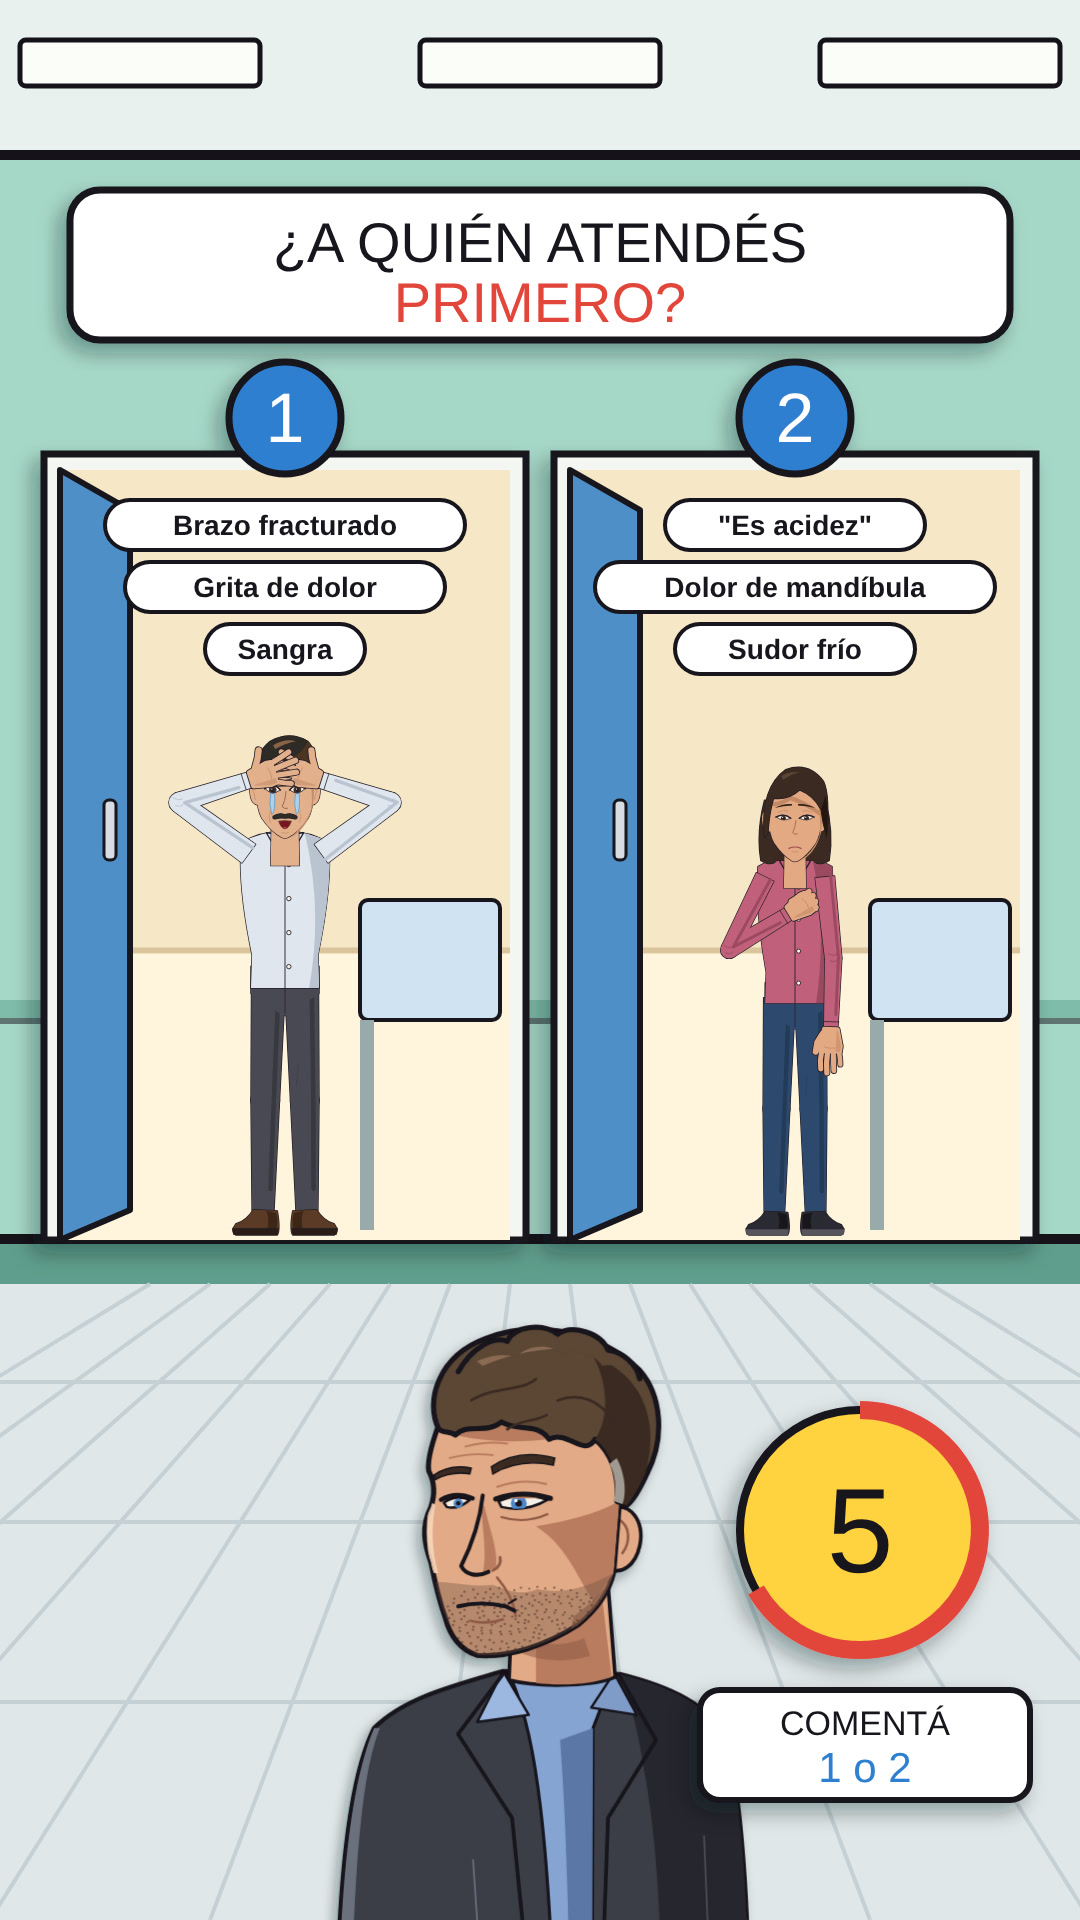
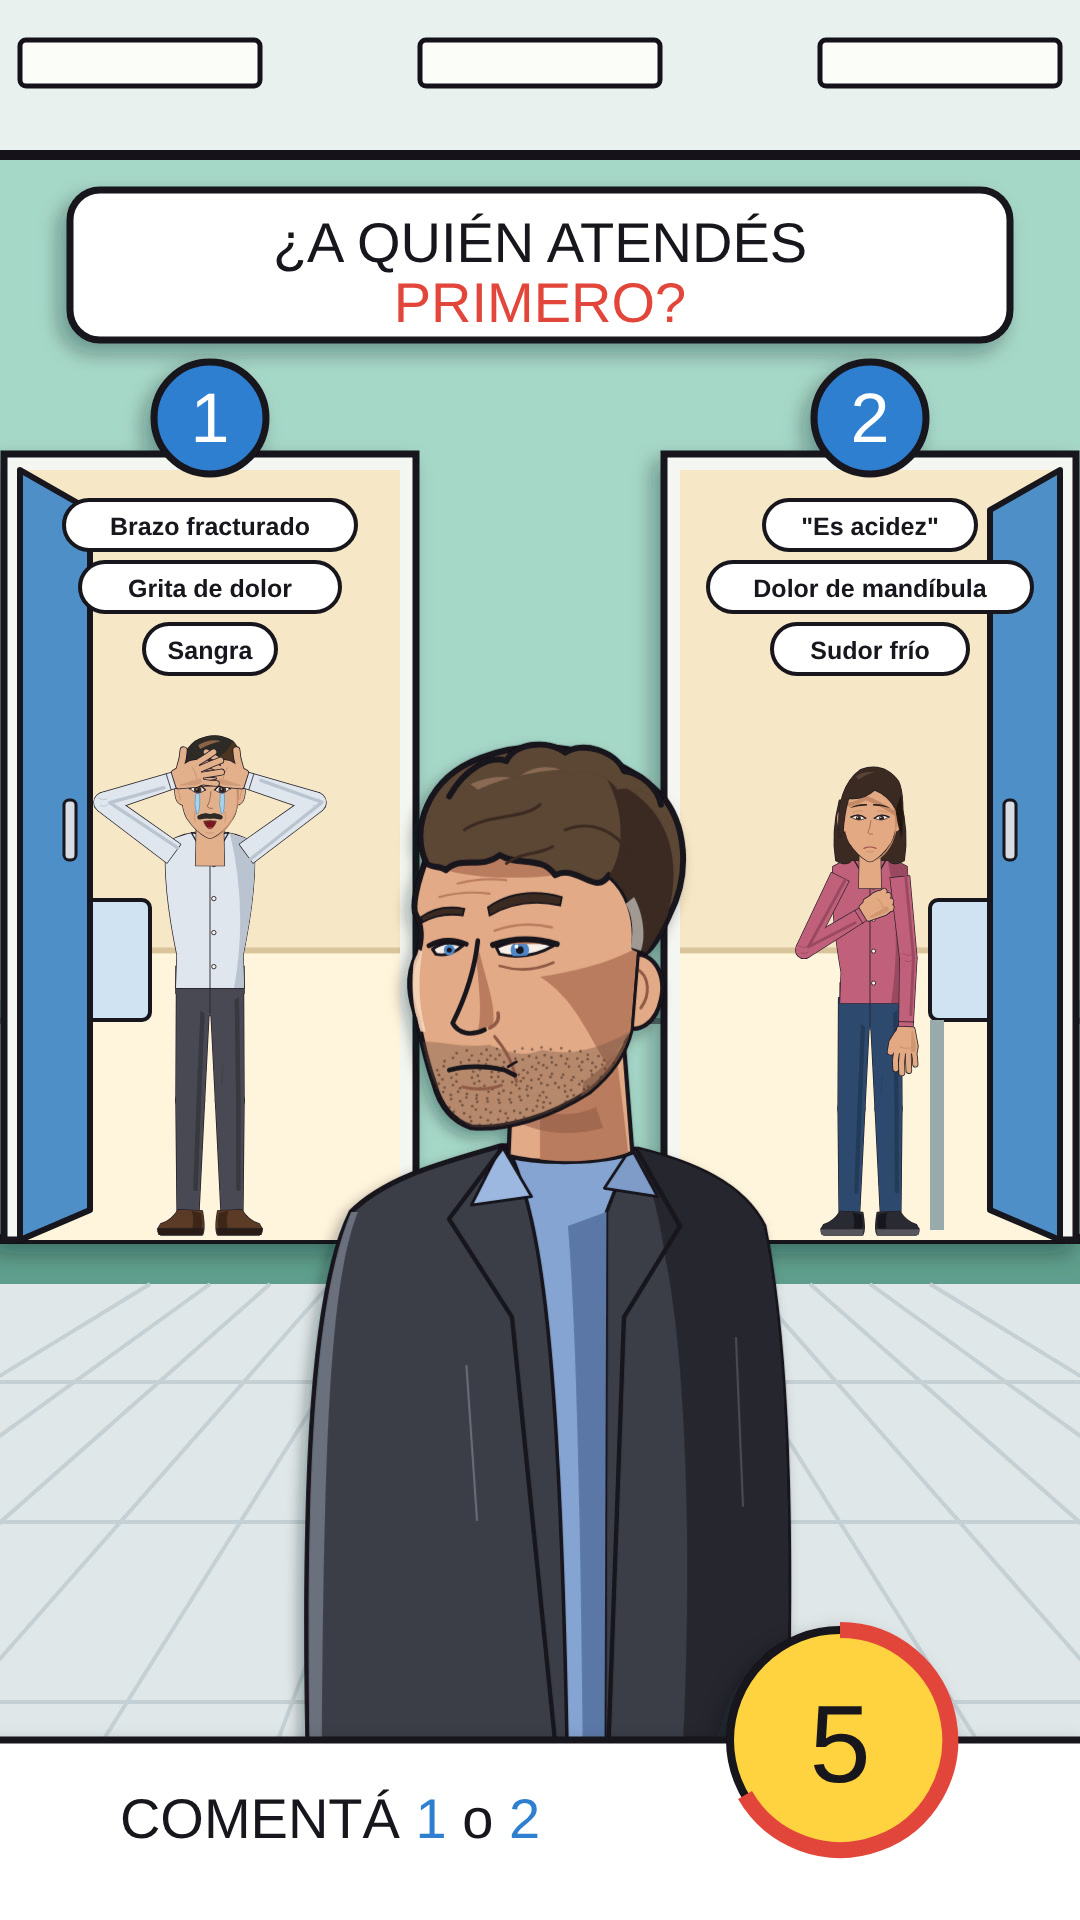
Puertas: House en el medio de las dos puertas, banda inferior con cuenta regresiva
Claude-Session: https://claude.ai/code/session_01GkkXfD2Nm3TmxvYx4d4aPy

diff --git a/herramientas/marvel/puertas.html b/herramientas/marvel/puertas.html
@@ -20,34 +20,37 @@ for (const y of [1380, 1520, 1700]) o += `<rect y="${y}" width="1080" height="4"
 o += `<g filter="url(#sh)">${box(70, 190, 940, 150, '#ffffff', 7, 30)}<text x="540" y="262" font-size="56" text-anchor="middle" fill="${L}">¿A QUIÉN ATENDÉS</text><text x="540" y="322" font-size="56" text-anchor="middle" fill="#e2453a">PRIMERO?</text></g>`;
 // puertas
 const doors = [
-  { x: 60, n: 1, who: 'hombre', pose: { face: { ...EXPR.shock, tears: .7, sweat: 1 }, ...POSE.headhold }, chips: ['Brazo fracturado', 'Grita de dolor', 'Sangra'] },
-  { x: 570, n: 2, who: 'madre', pose: { face: { ...EXPR.worried, sweat: 1 }, ...POSE.chin }, chips: ['"Es acidez"', 'Dolor de mandíbula', 'Sudor frío'] },
+  { x: 20, n: 1, who: 'hombre', pose: { face: { ...EXPR.shock, tears: .7, sweat: 1 }, ...POSE.headhold }, chips: ['Brazo fracturado', 'Grita de dolor', 'Sangra'] },
+  { x: 680, n: 2, who: 'madre', pose: { face: { ...EXPR.worried, sweat: 1 }, ...POSE.chin }, chips: ['"Es acidez"', 'Dolor de mandíbula', 'Sudor frío'] },
 ];
 for (const d of doors) {
-  const W = 450, T = 470, B = 1240, cx = d.x + W / 2;
+  const W = 380, T = 470, B = 1240, cx = d.x + W / 2;
   let g = '';
   if (reveal && d.n === 2) g += `<ellipse cx="${cx}" cy="${(T + B) / 2}" rx="380" ry="520" fill="url(#glow)"/>`;
   g += box(d.x - 16, T - 16, W + 32, B - T + 16, '#f4f6f2', 7);                                 // marco
   g += `<rect x="${d.x}" y="${T}" width="${W}" height="${B - T}" fill="#fff4dc"/>`;              // interior
   g += `<rect x="${d.x}" y="${T}" width="${W}" height="${(B - T) * .62}" fill="#f6e7c6"/><rect x="${d.x}" y="${T + (B - T) * .62}" width="${W}" height="6" fill="#d9c49c"/>`;
-  g += box(d.x + W - 150, 900, 140, 120, '#cfe3f3', 4, 8) + `<rect x="${d.x + W - 150}" y="1020" width="14" height="210" fill="#9aa"/>`; // camilla al fondo
+  g += box(d.x + (d.n === 1 ? 10 : W - 130), 900, 120, 120, '#cfe3f3', 4, 8) + `<rect x="${d.x + (d.n === 1 ? 10 : W - 130)}" y="1020" width="14" height="210" fill="#9aa"/>`; // camilla al fondo
   g += `<g transform="translate(${cx} 1235) scale(.56)">${drawCharacter(d.who, d.pose)}</g>`;
-  g += `<path d="M${d.x} ${T} L${d.x + 70} ${T + 40} L${d.x + 70} ${B - 30} L${d.x} ${B} Z" fill="#4f8fc7" stroke="${L}" stroke-width="6" stroke-linejoin="round"/><rect x="${d.x + 44}" y="${T + 330}" width="12" height="60" rx="5" fill="#d8dde3" stroke="${L}" stroke-width="3"/>`; // hoja abierta
+  const hx = d.n === 1 ? d.x : d.x + W, hs = d.n === 1 ? 1 : -1;
+  g += `<path d="M${hx} ${T} L${hx + hs * 70} ${T + 40} L${hx + hs * 70} ${B - 30} L${hx} ${B} Z" fill="#4f8fc7" stroke="${L}" stroke-width="6" stroke-linejoin="round"/><rect x="${hx + hs * 50 - 6}" y="${T + 330}" width="12" height="60" rx="5" fill="#d8dde3" stroke="${L}" stroke-width="3"/>`; // hoja abierta
   if (reveal && d.n === 1) g += `<rect x="${d.x}" y="${T}" width="${W}" height="${B - T}" fill="#0b1720" opacity=".45"/>`;
   // número
   const nc = reveal ? (d.n === 2 ? '#e2453a' : '#8a9496') : '#2f7fd0';
   g += `<circle cx="${cx}" cy="${T - 52}" r="56" fill="${nc}" stroke="${L}" stroke-width="7"/><text x="${cx}" y="${T - 28}" font-size="70" text-anchor="middle" fill="#fff">${d.n}</text>`;
   // síntomas
-  d.chips.forEach((t, i) => { const w = t.length * 20 + 40, y = T + 30 + i * 62; g += box(cx - w / 2, y, w, 50, '#ffffff', 4, 25) + `<text x="${cx}" y="${y + 35}" font-size="28" text-anchor="middle" fill="${L}" font-family="Arial, sans-serif" font-weight="bold">${t}</text>`; });
+  d.chips.forEach((t, i) => { const w = t.length * 16 + 36, y = T + 30 + i * 62; g += box(cx - w / 2, y, w, 50, '#ffffff', 4, 25) + `<text x="${cx}" y="${y + 35}" font-size="25" text-anchor="middle" fill="${L}" font-family="Arial, sans-serif" font-weight="bold">${t}</text>`; });
   if (reveal && d.n === 2) g += `<g transform="translate(${cx} 1120) rotate(-6)">${box(-190, -45, 380, 90, '#e2453a', 7, 12)}<text y="20" font-size="52" text-anchor="middle" fill="#fff">¡INFARTO!</text></g>`;
   o += `<g filter="url(#sh)">${g}</g>`;
 }
 // House abajo
-o += `<g filter="url(#sh)" transform="translate(200 1080) scale(.6)">${houseSVG()}</g>`;
-// cuenta regresiva / CTA
-if (!reveal) o += `<g filter="url(#sh)"><circle cx="860" cy="1530" r="120" fill="#ffd23f" stroke="${L}" stroke-width="8"/><path d="M860 1410 A120 120 0 1 1 756 1590" fill="none" stroke="#e2453a" stroke-width="18"/><text x="860" y="1572" font-size="120" text-anchor="middle" fill="${L}">5</text>
-  ${box(700, 1690, 330, 110, '#ffffff', 6, 20)}<text x="865" y="1735" font-size="34" text-anchor="middle" fill="${L}">COMENTÁ</text><text x="865" y="1782" font-size="42" text-anchor="middle" fill="#2f7fd0">1 o 2</text></g>`;
-else o += `<g filter="url(#sh)">${box(690, 1480, 350, 280, '#ffffff', 6, 20)}<text x="865" y="1545" font-size="32" text-anchor="middle" fill="${L}">En mujeres el</text><text x="865" y="1590" font-size="32" text-anchor="middle" fill="${L}">infarto puede</text><text x="865" y="1635" font-size="32" text-anchor="middle" fill="${L}">parecer</text><text x="865" y="1700" font-size="46" text-anchor="middle" fill="#e2453a">ACIDEZ</text></g>`;
+o += `<g filter="url(#sh)" transform="translate(148 456) scale(.7)">${houseSVG()}</g>`;
+// banda inferior: cuenta regresiva / CTA o dato final
+o += `<g filter="url(#sh)">${box(-10, 1740, 1100, 200, '#ffffff', 7)}`;
+if (!reveal) o += `<text x="330" y="1838" font-size="56" text-anchor="middle" fill="${L}">COMENTÁ <tspan fill="#2f7fd0">1</tspan> o <tspan fill="#2f7fd0">2</tspan></text>
+  <circle cx="840" cy="1740" r="110" fill="#ffd23f" stroke="${L}" stroke-width="8"/><path d="M840 1630 A110 110 0 1 1 745 1795" fill="none" stroke="#e2453a" stroke-width="16"/><text x="840" y="1782" font-size="110" text-anchor="middle" fill="${L}">5</text>`;
+else o += `<text x="540" y="1818" font-size="42" text-anchor="middle" fill="${L}">En mujeres el infarto puede parecer</text><text x="540" y="1880" font-size="54" text-anchor="middle" fill="#e2453a">ACIDEZ</text>`;
+o += `</g>`;
 document.getElementById('s').innerHTML = o;
 await document.fonts.ready; window.ready = true;
 </script></body></html>
